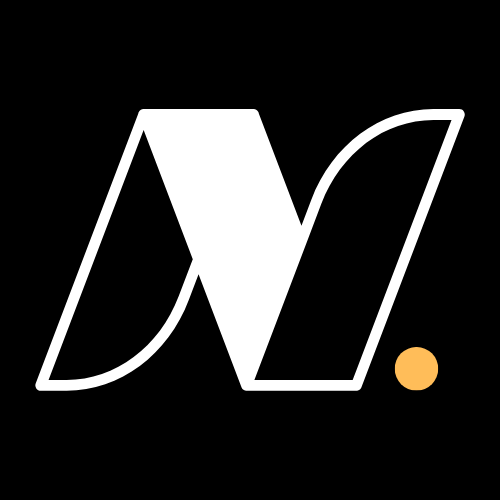
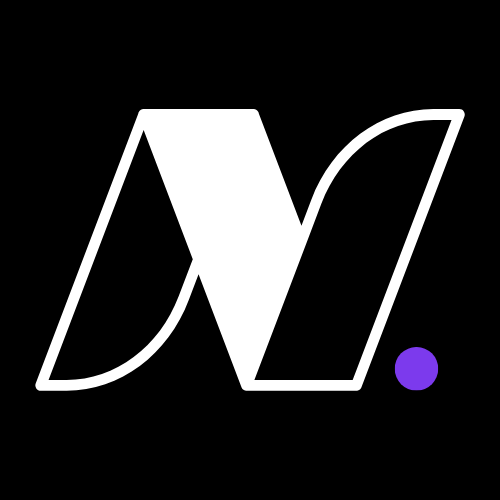
style: update asset references and accent color throughout the app

Changed region(s): [[0.78, 0.69, 0.9, 0.78]]

diff --git a/app/(tabs)/profile.tsx b/app/(tabs)/profile.tsx
@@ -96,7 +96,7 @@ export default function ProfileScreen() {
               )}
               <Pressable
                 onPress={handlePickImage}
-                className="absolute bottom-0 right-0 bg-black rounded-full p-3 active:opacity-80"
+                className="absolute bottom-0 right-0 bg-accent rounded-full p-3 active:opacity-80"
                 style={{
                   shadowColor: '#000',
                   shadowOpacity: 0.2,
@@ -142,7 +142,7 @@ export default function ProfileScreen() {
             <Pressable
               onPress={handleSaveProfile}
               disabled={isSaving}
-              className="bg-black py-4 rounded-xl active:opacity-80 mt-2"
+              className="bg-accent py-4 rounded-xl active:opacity-80 mt-2"
             >
               {isSaving ? (
                 <ActivityIndicator color="white" />

diff --git a/app.config.ts b/app.config.ts
@@ -14,7 +14,7 @@ const config: ExpoConfig = {
   userInterfaceStyle: 'light',
   newArchEnabled: true,
   splash: {
-    image: './assets/splash-icon.png',
+    image: './assets/white.png',
     resizeMode: 'contain',
     backgroundColor: '#ffffff',
   },
@@ -23,14 +23,14 @@ const config: ExpoConfig = {
   },
   android: {
     adaptiveIcon: {
-      foregroundImage: './assets/adaptive-icon.png',
+      foregroundImage: './assets/white.png',
       backgroundColor: '#ffffff',
     },
     edgeToEdgeEnabled: true,
     predictiveBackGestureEnabled: false,
   },
   web: {
-    favicon: './assets/favicon.png',
+    favicon: './assets/white.png',
     bundler: 'metro',
   },
   scheme: 'noctis',

diff --git a/app/(auth)/welcome.tsx b/app/(auth)/welcome.tsx
@@ -26,7 +26,7 @@ export default function WelcomeScreen() {
                 className="py-4 rounded-xl active:opacity-80"
                 style={{ backgroundColor: colors.accent }}
               >
-                <Text className="text-black text-center font-bold text-lg">
+                <Text className="text-white text-center font-bold text-lg">
                   Enter App
                 </Text>
               </Pressable>

diff --git a/global.css b/global.css
@@ -6,14 +6,14 @@
   :root {
     --background: 255 255 255;
     --foreground: 0 0 0;
-    --accent: 255 189 89;
+    --accent: 124 58 237;
     color-scheme: light;
   }
 
   .dark {
     --background: 0 0 0;
     --foreground: 255 255 255;
-    --accent: 255 189 89;
+    --accent: 124 58 237;
     color-scheme: dark;
   }
 

diff --git a/components/auth/Logo.tsx b/components/auth/Logo.tsx
@@ -4,7 +4,7 @@ import { Image, StyleSheet } from 'react-native';
 export const Logo: React.FC = () => {
   return (
     <Image
-      source={require('../../assets/full_black_tranparent.png')}
+      source={require('../../assets/full-white-transparent.png')}
       style={styles.logo}
       resizeMode="contain"
     />

diff --git a/constants/colors.ts b/constants/colors.ts
@@ -1,5 +1,5 @@
 export const colors = {
-  accent: 'rgb(255, 189, 89)', 
+  accent: 'rgb(124, 58, 237)', 
   background: 'rgb(255, 255, 255)', 
   foreground: 'rgb(0, 0, 0)', 
 };
